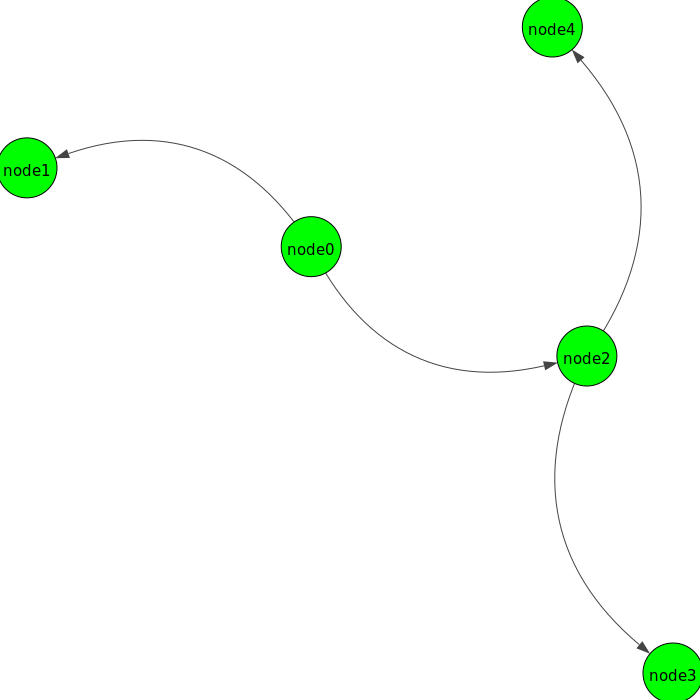
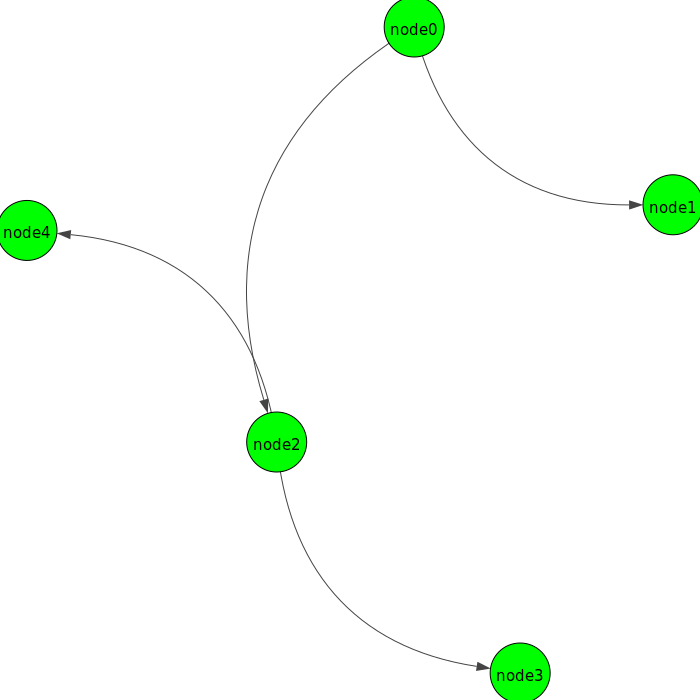
p10

diff --git a/level1/p10_routes/parse_route.py b/level1/p10_routes/parse_route.py
@@ -1,10 +1,11 @@
 import subprocess
-from dataclasses import dataclass
 from typing import List, Dict, Set
+from igraph import Graph, plot
 
 # output = subprocess.check_output('traceroute 1.1.1.1', shell=True).decode('UTF-8')
 # output = subprocess.check_output('traceroute 8.8.8.8', shell=True).decode('UTF-8')
 # output = subprocess.check_output('traceroute 91.200.38.109', shell=True).decode('UTF-8')
+from level1.p10_routes.graph_utils import default_style
 from level1.p10_routes.line_parser import TracerouteNode, parse_traceroute_line_linux
 
 """
@@ -17,19 +18,30 @@ Powinna istnieć też metoda exportowania grafu w postacji png'ka.
 
 class NetworkRouteMonitor:
     net: Dict[str, Set] = {}
+    nodes: Dict[str, TracerouteNode] = {}
 
     def insert_edge(self, ip_from: str, ip_to: str):
         if ip_from not in self.net:
             self.net[ip_from] = set()
         self.net[ip_from].add(ip_to)
 
-    def insert_route(self, nodes: List[TracerouteNode]):
+    def insert_route(self, trace_nodes: List[TracerouteNode]):
         # przejść przez listę i pododawać linki
-        n = len(nodes)
+        n = len(trace_nodes)
+        first = trace_nodes[0]
+        if not first.hidden:
+            self.nodes[first.ip] = first
         for i in range(1, n):
-            self.insert_edge(nodes[i - 1].ip, nodes[i].ip)
+            previous, current = (trace_nodes[i - 1], trace_nodes[i])
+            if previous.hidden or current.hidden:  # hidden node blokuje linki (ale pozostałe dalej są OK)
+                continue
+            self.insert_edge(previous.ip, current.ip)
+            self.nodes[current.ip] = current
 
-    def use_target(self, ip):
+    def use_target(self, ip, limit_range = 20):
+        """
+        Wykonuje traceroute na `ip`, i dane wynikowe zapamiętuje w strukturze sieci
+        """
         output = subprocess.check_output(f'traceroute {ip}', shell=True).decode('UTF-8')
         lines = output.splitlines()[1:]
         nodes = []
@@ -37,12 +49,45 @@ class NetworkRouteMonitor:
             nodes.append(parse_traceroute_line_linux(line))
         self.insert_route(nodes)
 
+    def plot(self, filename='network.png'):
+        g = Graph(directed=True)
+        n = len(self.nodes)
+        g.add_vertices(n)
+
+        # ponumerujmy wszystkie node'y
+        number = {}  # ip -> number
+        x = 0
+        for node in self.nodes.values():
+            print(f'adding node: {node}')
+            g.vs[x]['id'] = x
+            g.vs[x]['label'] = node.ip + f'({node.hostname})'
+            number[node.ip] = x
+            x += 1
+
+        # Add edges
+        edges = []
+        for (ip, children) in self.net.items():
+            for ch in children:
+                edges.append((number[ip], number[ch]))
+
+        print(edges)
+
+        g.add_edges(edges)
+        out_name = filename
+        plot(g, out_name, **default_style(g))
 
 
 monitor = NetworkRouteMonitor()
-monitor.use_target('1.1.1.1')
-monitor.use_target('91.200.38.109')
+ips = ['1.1.1.1', '8.8.8.8', '91.200.38.109', 'google.pl',  '100.0.0.1', '31.13.81.36']
+for ip in ips:
+    monitor.use_target(ip, limit_range=5)
+# monitor.use_target('1.1.1.1')
+# # for i in range(8):
+# monitor.use_target('8.8.8.8')
+# monitor.use_target('91.200.38.109')
 # monitor.use_target('google.pl')
-print(monitor.net)
-for (k,v) in monitor.net.items():
-    print(f'{k} --> {v}')
+
+monitor.plot('net1.png')
+monitor.plot('net2.png')
+monitor.plot('net3.png')
+monitor.plot('net4.png')

diff --git a/level1/p10_routes/line_parser.py b/level1/p10_routes/line_parser.py
@@ -9,18 +9,25 @@ class TracerouteNode:
     rt_time: int
     hidden: bool = False
 
+    @staticmethod
+    def hidden_node():
+        return TracerouteNode('hidden', 'hidden', 0, True)
+
 
 def parse_traceroute_line_linux(line: str) -> TracerouteNode:
-    if line.__contains__('*'):
-        return TracerouteNode('', '', 0, True)
-    line = line.replace(' !X', '')
-    s = line.split(' ')
-    print(s)
-    hostname = s[3]
-    ip = s[4][1:-1]
-    rtts = [s[6], s[9], s[12]]
-    rtt = sum([float(f) for f in rtts]) / 3
-    # do napisania
+    line = line.strip()
+    try:
+        if line.__contains__('*'):
+            return TracerouteNode('', '', 0, True)
+        line = line.replace(' !X', '')
+        s = line.split(' ')
+        print(s)
+        hostname = s[2]
+        ip = s[3][1:-1]
+        rtt = float(s[5])
+    except:
+        print(f'error parsing line: [{line}]')
+        return TracerouteNode.hidden_node()
     return TracerouteNode(ip, hostname, round(rtt))
 
 
@@ -46,8 +53,6 @@ def parse_traceroute_line_windows(line: str):
     else:
         return TracerouteNode('hidden', 'hidden', 0, True)
     return TracerouteNode(ip, hostname, rt_time)
-
-
 
 
 class TestSum(unittest.TestCase):

diff --git a/level1/p9_klasy_grafy/show_graph1.py b/level1/p9_klasy_grafy/show_graph1.py
@@ -1,6 +1,8 @@
 # Create a directed graph
 from igraph import Graph, plot
 
+from level1.p10_routes.graph_utils import default_style
+
 """
 Zadanie: przedstawić graficznie drzewo zadane przez listę dzieci, 
 
@@ -11,15 +13,15 @@ gg = [[1, 2], [], [3, 4], [], []]
 n = len(gg)
 
 g = Graph(directed=True)
-
 g.add_vertices(n)
 
 # Add ids and labels to vertices
 for i in range(n):
     g.vs[i]["id"] = i
     g.vs[i]["label"] = 'node' + str(i)
-#
-g.vs['color'] = (['green'] * n)
+
+
+g.vs['color'] = (['green'] * n)  # kolory węzłów
 
 # Add edges
 edges = []
@@ -29,15 +31,5 @@ for i in range(n):
 
 
 g.add_edges(edges)
-
-visual_style = {}
-out_name = 'tree.png'  # Set bbox and margin
-visual_style['bbox'] = (700, 700)
-visual_style['margin'] = 27  # Set vertex colours
-# visual_style['vertex_color'] = 'red'  # Set vertex size
-visual_style['vertex_size'] = 60  # Set vertex lable size
-visual_style['vertex_label_size'] = 15  # Don't curve the edges
-visual_style['edge_curved'] = True  # Set the layout
-my_layout = g.layout_lgl()
-visual_style['layout'] = my_layout  # Plot the graph
-plot(g, out_name, **visual_style)
+out_name = 'tree.png'
+plot(g, out_name, **default_style(g))

diff --git a/level1/p10_routes/graph_utils.py b/level1/p10_routes/graph_utils.py
@@ -1,0 +1,12 @@
+from typing import Dict
+
+from igraph import Graph
+
+
+def default_style(g: Graph) -> Dict:
+    # my_layout = g.layout_lgl()
+    my_layout = g.layout_fruchterman_reingold()
+    visual_style = {'bbox': (1200, 1200), 'margin': 30,
+                    'vertex_size': 15, 'vertex_label_size': 12,
+                    'edge_curved': False, 'layout': my_layout}
+    return visual_style

diff --git a/level1/p10_routes/struktura_set.py b/level1/p10_routes/struktura_set.py
@@ -26,3 +26,5 @@ net['1.1.1.1'].add('3.3.3.3')
 if not '1.1.1.2' in net:
     net['1.1.1.2'] = set()
 net['1.1.1.2'].add('3.3.3.3')
+
+print(len(net))

diff --git a/level1/p10_routes/g.py b/level1/p10_routes/g.py
@@ -7,5 +7,5 @@ class User:
     age: int
 
 
-u = User('tester', '15')
+u = User('tester', 15)
 print(u)
